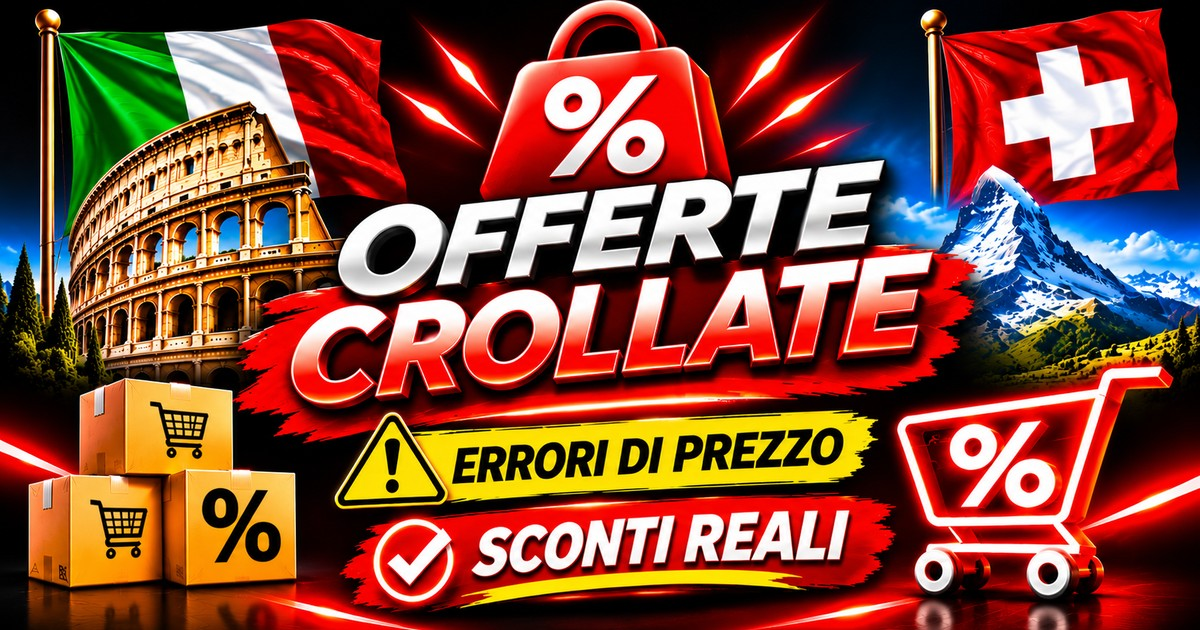
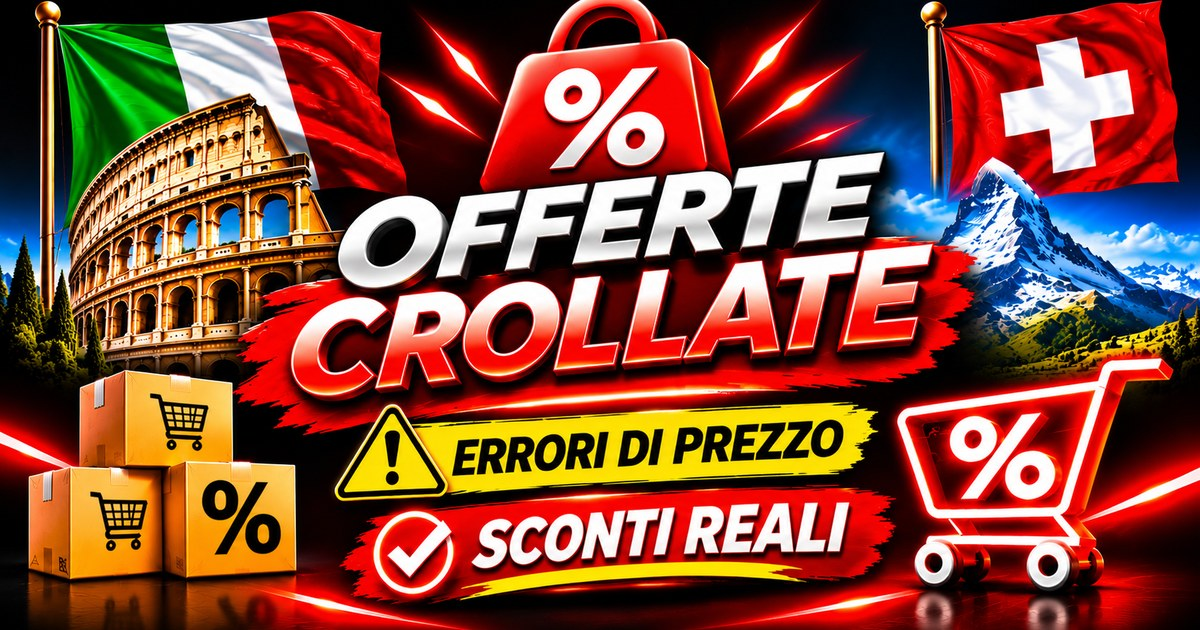
Nuova anteprima del link
Claude-Session: https://claude.ai/code/session_01474XXxtDEPwiZaNH6ALueh

diff --git a/index.html b/index.html
@@ -1,4 +1,4 @@
-<!DOCTYPE html><html lang="it"><head><meta charset="utf-8"><meta name="viewport" content="width=device-width,initial-scale=1"><meta name="theme-color" content="#070707"><title>Offerte Crollate – Le migliori offerte in Italia</title><meta name="description" content="Errori di prezzo e offerte forti in Italia e Svizzera, prezzi controllati in meno di un&#x27;ora."><meta property="og:type" content="website"><meta property="og:site_name" content="Offerte Crollate"><meta property="og:title" content="Offerte Crollate – Le migliori offerte in Italia"><meta property="og:description" content="Errori di prezzo e offerte forti in Italia e Svizzera, prezzi controllati in meno di un&#x27;ora."><meta property="og:url" content="https://offertecrollate.it/"><link rel="canonical" href="https://offertecrollate.it/"><meta property="og:image" content="https://offertecrollate.it/assets/og.jpg?v=2"><meta property="og:image:secure_url" content="https://offertecrollate.it/assets/og.jpg?v=2"><meta property="og:image:type" content="image/jpeg"><meta property="og:image:width" content="1200"><meta property="og:image:height" content="630"><meta property="og:image:alt" content="Offerte Crollate"><meta property="og:locale" content="it_IT"><meta name="twitter:card" content="summary_large_image"><meta name="twitter:image" content="https://offertecrollate.it/assets/og.jpg?v=2"><link rel="preload" href="assets/fonts/montserrat-var.woff2" as="font" type="font/woff2" crossorigin><link rel="alternate" hreflang="it" href="https://offertecrollate.it/"><link rel="icon" href="assets/logo_round.png"><style>
+<!DOCTYPE html><html lang="it"><head><meta charset="utf-8"><meta name="viewport" content="width=device-width,initial-scale=1"><meta name="theme-color" content="#070707"><title>Offerte Crollate – Le migliori offerte in Italia</title><meta name="description" content="Errori di prezzo e offerte forti in Italia e Svizzera, prezzi controllati in meno di un&#x27;ora."><meta property="og:type" content="website"><meta property="og:site_name" content="Offerte Crollate"><meta property="og:title" content="Offerte Crollate – Le migliori offerte in Italia"><meta property="og:description" content="Errori di prezzo e offerte forti in Italia e Svizzera, prezzi controllati in meno di un&#x27;ora."><meta property="og:url" content="https://offertecrollate.it/"><link rel="canonical" href="https://offertecrollate.it/"><meta property="og:image" content="https://offertecrollate.it/assets/og.jpg?v=3"><meta property="og:image:secure_url" content="https://offertecrollate.it/assets/og.jpg?v=3"><meta property="og:image:type" content="image/jpeg"><meta property="og:image:width" content="1200"><meta property="og:image:height" content="630"><meta property="og:image:alt" content="Offerte Crollate"><meta property="og:locale" content="it_IT"><meta name="twitter:card" content="summary_large_image"><meta name="twitter:image" content="https://offertecrollate.it/assets/og.jpg?v=3"><link rel="preload" href="assets/fonts/montserrat-var.woff2" as="font" type="font/woff2" crossorigin><link rel="alternate" hreflang="it" href="https://offertecrollate.it/"><link rel="icon" href="assets/logo_round.png"><style>
 @font-face{font-family:Montserrat;font-weight:100 900;font-display:swap;src:url(assets/fonts/montserrat-var.woff2) format("woff2");unicode-range:U+0000-00FF,U+0131,U+0152-0153,U+02BB-02BC,U+02C6,U+02DA,U+02DC,U+2000-206F,U+20AC,U+2122,U+2191,U+2193,U+2212,U+2215,U+FEFF,U+FFFD}
 @font-face{font-family:Montserrat;font-weight:100 900;font-display:swap;src:url(assets/fonts/montserrat-var-ext.woff2) format("woff2");unicode-range:U+0100-024F,U+1E00-1EFF,U+2020,U+20A0-20AB,U+20AD-20CF,U+2113,U+2C60-2C7F,U+A720-A7FF}
 *{box-sizing:border-box}

diff --git a/privacy.html b/privacy.html
@@ -1,4 +1,4 @@
-<!DOCTYPE html><html lang="it"><head><meta charset="utf-8"><meta name="viewport" content="width=device-width,initial-scale=1"><meta name="theme-color" content="#4a0f15"><title>Privacy – Offerte Crollate</title><meta name="description" content="Errori di prezzo e offerte forti in Italia e Svizzera, prezzi controllati in meno di un&#x27;ora."><meta property="og:type" content="website"><meta property="og:site_name" content="Offerte Crollate"><meta property="og:title" content="Privacy – Offerte Crollate"><meta property="og:description" content="Errori di prezzo e offerte forti in Italia e Svizzera, prezzi controllati in meno di un&#x27;ora."><meta property="og:url" content="https://offertecrollate.it/privacy.html"><link rel="canonical" href="https://offertecrollate.it/privacy.html"><meta property="og:image" content="https://offertecrollate.it/assets/og.jpg?v=2"><meta property="og:image:secure_url" content="https://offertecrollate.it/assets/og.jpg?v=2"><meta property="og:image:type" content="image/jpeg"><meta property="og:image:width" content="1200"><meta property="og:image:height" content="630"><meta property="og:image:alt" content="Offerte Crollate"><meta property="og:locale" content="it_IT"><meta name="twitter:card" content="summary_large_image"><meta name="twitter:image" content="https://offertecrollate.it/assets/og.jpg?v=2"><link rel="preload" href="assets/fonts/archivo.woff2" as="font" type="font/woff2" crossorigin><style>@font-face{font-family:Archivo;src:url(assets/fonts/archivo.woff2) format("woff2");font-weight:400 900;font-stretch:62% 125%;font-display:swap}</style><style>
+<!DOCTYPE html><html lang="it"><head><meta charset="utf-8"><meta name="viewport" content="width=device-width,initial-scale=1"><meta name="theme-color" content="#4a0f15"><title>Privacy – Offerte Crollate</title><meta name="description" content="Errori di prezzo e offerte forti in Italia e Svizzera, prezzi controllati in meno di un&#x27;ora."><meta property="og:type" content="website"><meta property="og:site_name" content="Offerte Crollate"><meta property="og:title" content="Privacy – Offerte Crollate"><meta property="og:description" content="Errori di prezzo e offerte forti in Italia e Svizzera, prezzi controllati in meno di un&#x27;ora."><meta property="og:url" content="https://offertecrollate.it/privacy.html"><link rel="canonical" href="https://offertecrollate.it/privacy.html"><meta property="og:image" content="https://offertecrollate.it/assets/og.jpg?v=3"><meta property="og:image:secure_url" content="https://offertecrollate.it/assets/og.jpg?v=3"><meta property="og:image:type" content="image/jpeg"><meta property="og:image:width" content="1200"><meta property="og:image:height" content="630"><meta property="og:image:alt" content="Offerte Crollate"><meta property="og:locale" content="it_IT"><meta name="twitter:card" content="summary_large_image"><meta name="twitter:image" content="https://offertecrollate.it/assets/og.jpg?v=3"><link rel="preload" href="assets/fonts/archivo.woff2" as="font" type="font/woff2" crossorigin><style>@font-face{font-family:Archivo;src:url(assets/fonts/archivo.woff2) format("woff2");font-weight:400 900;font-stretch:62% 125%;font-display:swap}</style><style>
 :root{--bg:#f8f1f0;--ink:#2b1315;--muted:#7b5f5c;--card:#fff;--line:#ecdcda;--wine:#4a0f15;--wine2:#7a1420;
 --crimson:#d90f26;--crimson2:#f02a40;--go:#0e8f4a;--go2:#0aa456;--gold:#f4b012;--gold2:#ffd56b;--cream:#fff4e6;--radius:16px}
 *{box-sizing:border-box}
